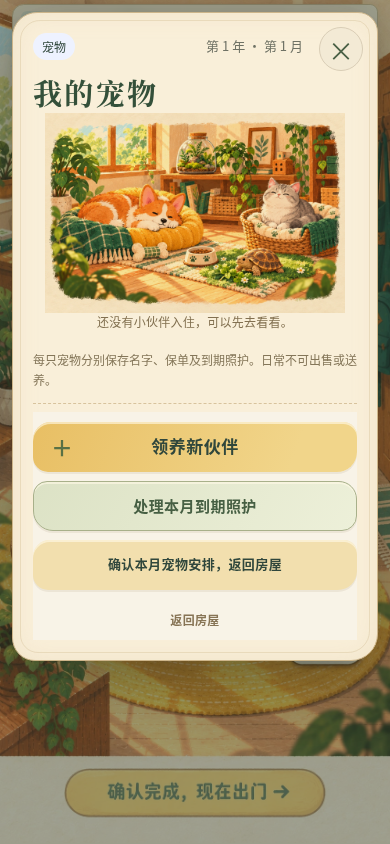
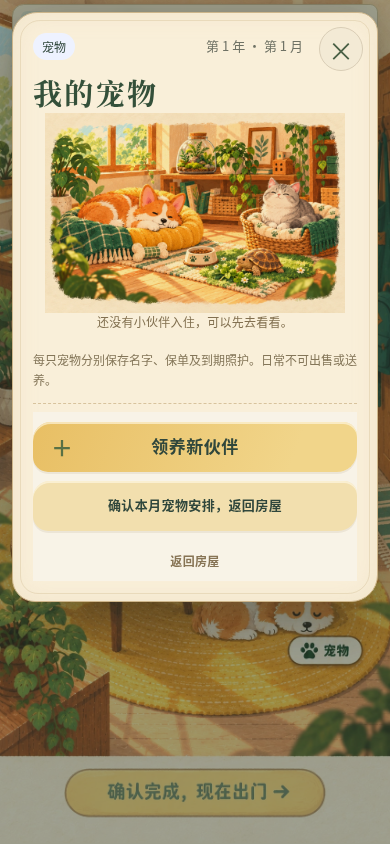
Hide due care from the pet hub until a pet is adopted

Changed region(s): [[0.0308, 0.5545, 0.9846, 0.8009]]

diff --git a/sw.js b/sw.js
@@ -1,5 +1,5 @@
-const CACHE='wealth-life-v28.3-pet-hub1';
-const ASSETS=["./pet-hub-art.js?v=28.3-pet-hub1","./pet-hub-art.css?v=28.3-pet-hub1","./assets/career/pet-hub.webp","./assets/career/home-mobile.webp","./room-arrangements.js?v=28.3-room-checks1","./map-card-data.js?v=28.3-mapcards1", "./map-card-rules.js?v=28.3-mapcards1", "./map-card-system.js?v=28.3-mapcards1", "./map-card.css?v=28.3-mapcards1", "./assets/career/map-pet-unwell.webp", "./assets/career/map-pet-injury.webp", "./assets/career/map-pet-companion.webp", "./assets/career/map-pet-social.webp", "./assets/career/map-pet-mishap.webp", "./assets/career/map-investment-studio.webp", "./assets/career/map-investment-bun-shop.webp", "./assets/career/map-investment-laundry.webp"] .concat(["./cafe-rules.js?v=28.3-manager1","./cafe-system.js?v=28.3-manager1","./career-entry.js?v=28.3-mobile-room1","./career-entry.css?v=28.3-entry2","./assets/career/shift-promotion-pending.webp","./assets/career/shift-promotion-preview.webp","./assets/career/coffee-course.webp","./pet-adoption.js?v=28.3-candidate1","./candidate-art.js?v=28.3-candidate1","./assets/career/barista-portrait.webp","./assets/career/pet-time-shortage.webp","./assets/career/pet-funds-shortage.webp","./assets/career/pet-crocodile-care.webp","./assets/career/bank-application.webp","./assets/career/bank-payment.webp","./housing-art.js?v=28.3-housing1","./assets/career/housing-select.webp","./assets/career/housing-reserve.webp","./assets/career/living-cost.webp","./return-art.js?v=28.3-return1","./assets/career/insurance.webp","./assets/career/return-energy.webp","./assets/career/return-stress.webp","./assets/career/payday.webp","./health-art.js?v=28.3-health1","./assets/career/rest-arrange.webp","./assets/career/rest-complete.webp","./assets/career/hospital-recovery.webp","./assets/career/month-recovery.webp","./education-art.js?v=28.3-education1","./assets/career/degrees.webp","./assets/career/associate-preview.webp","./learning-art.js?v=28.3-learning1","./assets/career/learning.webp","./assets/career/management-course.webp","./assets/career/service-course.webp","./hobby-art.js?v=28.3-room2","./assets/career/hobbies.webp","./home-scene.js?v=28.3-room-unified1","./home-scene.css?v=28.3-room-unified1","./assets/career/home.webp","./release-info.js?v=28.3-internal1","./financial-crisis.js?v=28.3-internal1","./four-state.js?v=28.3-internal1","./rest-state.js?v=28.3-internal1","./coffee-salary.js?v=28.3-internal1","./housing-lease.js?v=28.3-internal1","./pet-care.js?v=28.3-internal1","./necessary-bills.js?v=28.3-internal1","./recovery-ui.js?v=28.3-internal1","./medical-insurance.js?v=28.3-internal1","./recovery-rules.js?v=28.3-internal1","./time-ledger.js?v=28.3-internal1","./time-flow.js?v=28.3-home-end1","./assets/career/town.webp","./coffee-career.js?v=28.3-mapcards1", "./assets/career/barista-staff.webp", "./assets/career/barista-busy.webp", "./assets/career/barista-cut.webp", "./assets/career/barista-tip.webp", "./assets/career/barista-departure.webp", "./assets/career/shift-training.webp", "./assets/career/shift-schedule.webp", "./assets/career/shift-schedule-success.webp", "./assets/career/shift-schedule-failure.webp", "./assets/career/shift-complaint.webp", "./assets/career/shift-complaint-success.webp", "./assets/career/shift-complaint-failure.webp", "./assets/career/shift-acting.webp", "./assets/career/shift-acting-success.webp", "./assets/career/shift-acting-failure.webp", "./assets/career/shift-praise.webp", "./assets/career/intro.webp"] .concat(["./shift-lead.js?v=28.3-internal1","./shift-lead.css?v=28.3-internal1","./paper.css?v=28.3-internal1",'./coffee.js?v=28.3-internal1','./town.js?v=28.3-internal1','./','./index.html','./core.js','./flow.js?v=28.3-internal1','./journey.js?v=28.3-internal1','./batch.js?v=28.3-mapcards1','./revision.js?v=28.3-internal1','./annual.js?v=28.3-internal1','./core.js?v=28.3-mapcards1','./presentation.js?v=28.3-candidate1','./presentation.css?v=28.3-internal1','./city.svg','./manifest.webmanifest','./icons/icon-192.png','./icons/icon-512.png']));
+const CACHE='wealth-life-v28.3-pet-empty1';
+const ASSETS=["./pet-hub-art.js?v=28.3-pet-hub1","./pet-hub-art.css?v=28.3-pet-hub1","./assets/career/pet-hub.webp","./assets/career/home-mobile.webp","./room-arrangements.js?v=28.3-room-checks1","./map-card-data.js?v=28.3-mapcards1", "./map-card-rules.js?v=28.3-mapcards1", "./map-card-system.js?v=28.3-mapcards1", "./map-card.css?v=28.3-mapcards1", "./assets/career/map-pet-unwell.webp", "./assets/career/map-pet-injury.webp", "./assets/career/map-pet-companion.webp", "./assets/career/map-pet-social.webp", "./assets/career/map-pet-mishap.webp", "./assets/career/map-investment-studio.webp", "./assets/career/map-investment-bun-shop.webp", "./assets/career/map-investment-laundry.webp"] .concat(["./cafe-rules.js?v=28.3-manager1","./cafe-system.js?v=28.3-manager1","./career-entry.js?v=28.3-mobile-room1","./career-entry.css?v=28.3-entry2","./assets/career/shift-promotion-pending.webp","./assets/career/shift-promotion-preview.webp","./assets/career/coffee-course.webp","./pet-adoption.js?v=28.3-pet-empty1","./candidate-art.js?v=28.3-candidate1","./assets/career/barista-portrait.webp","./assets/career/pet-time-shortage.webp","./assets/career/pet-funds-shortage.webp","./assets/career/pet-crocodile-care.webp","./assets/career/bank-application.webp","./assets/career/bank-payment.webp","./housing-art.js?v=28.3-housing1","./assets/career/housing-select.webp","./assets/career/housing-reserve.webp","./assets/career/living-cost.webp","./return-art.js?v=28.3-return1","./assets/career/insurance.webp","./assets/career/return-energy.webp","./assets/career/return-stress.webp","./assets/career/payday.webp","./health-art.js?v=28.3-health1","./assets/career/rest-arrange.webp","./assets/career/rest-complete.webp","./assets/career/hospital-recovery.webp","./assets/career/month-recovery.webp","./education-art.js?v=28.3-education1","./assets/career/degrees.webp","./assets/career/associate-preview.webp","./learning-art.js?v=28.3-learning1","./assets/career/learning.webp","./assets/career/management-course.webp","./assets/career/service-course.webp","./hobby-art.js?v=28.3-room2","./assets/career/hobbies.webp","./home-scene.js?v=28.3-room-unified1","./home-scene.css?v=28.3-room-unified1","./assets/career/home.webp","./release-info.js?v=28.3-internal1","./financial-crisis.js?v=28.3-internal1","./four-state.js?v=28.3-internal1","./rest-state.js?v=28.3-internal1","./coffee-salary.js?v=28.3-internal1","./housing-lease.js?v=28.3-internal1","./pet-care.js?v=28.3-internal1","./necessary-bills.js?v=28.3-internal1","./recovery-ui.js?v=28.3-internal1","./medical-insurance.js?v=28.3-internal1","./recovery-rules.js?v=28.3-internal1","./time-ledger.js?v=28.3-internal1","./time-flow.js?v=28.3-home-end1","./assets/career/town.webp","./coffee-career.js?v=28.3-mapcards1", "./assets/career/barista-staff.webp", "./assets/career/barista-busy.webp", "./assets/career/barista-cut.webp", "./assets/career/barista-tip.webp", "./assets/career/barista-departure.webp", "./assets/career/shift-training.webp", "./assets/career/shift-schedule.webp", "./assets/career/shift-schedule-success.webp", "./assets/career/shift-schedule-failure.webp", "./assets/career/shift-complaint.webp", "./assets/career/shift-complaint-success.webp", "./assets/career/shift-complaint-failure.webp", "./assets/career/shift-acting.webp", "./assets/career/shift-acting-success.webp", "./assets/career/shift-acting-failure.webp", "./assets/career/shift-praise.webp", "./assets/career/intro.webp"] .concat(["./shift-lead.js?v=28.3-internal1","./shift-lead.css?v=28.3-internal1","./paper.css?v=28.3-internal1",'./coffee.js?v=28.3-internal1','./town.js?v=28.3-internal1','./','./index.html','./core.js','./flow.js?v=28.3-internal1','./journey.js?v=28.3-internal1','./batch.js?v=28.3-mapcards1','./revision.js?v=28.3-internal1','./annual.js?v=28.3-internal1','./core.js?v=28.3-mapcards1','./presentation.js?v=28.3-candidate1','./presentation.css?v=28.3-internal1','./city.svg','./manifest.webmanifest','./icons/icon-192.png','./icons/icon-512.png']));
 self.addEventListener('install',e=>{self.skipWaiting();e.waitUntil(caches.open(CACHE).then(c=>c.addAll(ASSETS)))});
 self.addEventListener('activate',e=>e.waitUntil(Promise.all([caches.keys().then(keys=>Promise.all(keys.filter(k=>k.startsWith('wealth-life-')&&k!==CACHE).map(k=>caches.delete(k)))),self.clients.claim()])));
 // Register the cache lifetime synchronously while the fetch event is active.

diff --git a/pet-adoption.js b/pet-adoption.js
@@ -74,7 +74,7 @@ function openPetPolicy(id){
 function openPetHub(){
  syncFinance();showEvent('宠物','我的宠物','每只宠物分别保存名字、保单及到期照护。日常不可出售或送养。',
  (state.pets||[]).map(p=>[batchEscape(p.name||p.type), (PET_ADOPTION[petCareSpecies(p)]?.name||batchEscape(p.type))+' · 月养护 '+priceText(petIndividualMonthly(p))]),
- [['领养新伙伴',openPetAdoptions,true],['处理本月到期照护',openPetCare,false],
+ [['领养新伙伴',openPetAdoptions,true],...((state.pets||[]).length?[['处理本月到期照护',openPetCare,false]]:[]),
  ...(state.pets||[]).filter(p=>p.petRulesVersion===1).map(p=>[p.name+' · 保险',()=>openPetPolicy(p.id),false]),['返回房屋',townHome,false]]);
 }
 $('petBtn').onclick=openPetHub;

diff --git a/index.html b/index.html
@@ -580,7 +580,7 @@ window.v245OpenHousing=()=>document.getElementById('housingBtn').click();
 <script src="health-art.js?v=28.3-health1"></script>
 <script src="return-art.js?v=28.3-return1"></script>
 <script src="housing-art.js?v=28.3-housing1"></script>
-<script src="pet-adoption.js?v=28.3-candidate1"></script>
+<script src="pet-adoption.js?v=28.3-pet-empty1"></script>
 <script src="candidate-art.js?v=28.3-candidate1"></script>
 <link rel="stylesheet" href="career-entry.css?v=28.3-entry2">
 <script src="career-entry.js?v=28.3-mobile-room1"></script>

diff --git a/qa/browser-pet-hub-art.py b/qa/browser-pet-hub-art.py
@@ -23,8 +23,7 @@ with sync_playwright() as p:
  assert page.get_by_role('button',name='查看变色龙',exact=True).is_visible()
  page.get_by_role('button',name='返回我的宠物',exact=True).click()
  assert page.locator('.event-active.pet-hub-painted').count()==1
- page.get_by_role('button',name='处理本月到期照护',exact=True).click()
- assert page.locator('.event-active.pet-hub-painted').count()==0
+ assert page.get_by_role('button',name='处理本月到期照护',exact=True).count()==0
  assert page.evaluate('({cash:state.cash,month:state.month,free:currentCareerTime().free,pets:state.pets.length})')==before
  page.evaluate('clearModals();townHome()');page.locator('#roomView [data-room="pets"]').click()
  for width,height in [(320,740),(390,844)]:
@@ -39,6 +38,8 @@ with sync_playwright() as p:
  assert page.locator('.pet-hub-empty').count()==0
  assert '豆豆' in page.locator('#eventData').inner_text()
  assert page.get_by_role('button',name='豆豆 · 保险',exact=True).is_visible()
+ page.get_by_role('button',name='处理本月到期照护',exact=True).click()
+ assert page.locator('.event-active.pet-hub-painted').count()==0
  assert not errors,errors
- result={'passed':True,'checks':['新卡实际加载插画，未养宠显示空状态，打开不扣款不耗时','领养/返回/到期照护真实按钮沿原动作，子页不会残留宠物主页样式','320/390px无横向溢出，确认回屋保留打勾','已养宠fixture展示真实名字与逐宠保险按钮'],'pageErrors':errors,'limitations':['隔离Chromium，非真机','已养宠仅显示fixture，未重测全部领养与理赔规则']}
+ result={'passed':True,'checks':['新卡实际加载插画，未养宠不显示到期照护，打开不扣款不耗时','领养/返回/到期照护真实按钮沿原动作，子页不会残留宠物主页样式','320/390px无横向溢出，确认回屋保留打勾','已养宠fixture展示真实名字与逐宠保险按钮'],'pageErrors':errors,'limitations':['隔离Chromium，非真机','已养宠仅显示fixture，未重测全部领养与理赔规则']}
  Path('qa/browser-evidence/pet-hub-art.json').write_text(json.dumps(result,ensure_ascii=False,indent=2)+'\n');print(json.dumps(result,ensure_ascii=False,indent=2));ctx.close();b.close()

diff --git a/qa/browser-month-loop.py b/qa/browser-month-loop.py
@@ -64,7 +64,7 @@ with sync_playwright() as p:
  ctx=b.new_context();page=ctx.new_page();page.goto('http://127.0.0.1:8765',wait_until='networkidle')
  page.evaluate('navigator.serviceWorker.ready');page.reload(wait_until='networkidle')
  page.wait_for_function('navigator.serviceWorker.controller!==null')
- assert page.evaluate('caches.keys()')==['wealth-life-v28.3-pet-hub1']
+ assert page.evaluate('caches.keys()')==['wealth-life-v28.3-pet-empty1']
  ctx.set_offline(True);page.reload(wait_until='networkidle')
  (page.locator('#careerPreview') if page.locator('#careerPreview').is_visible() else page.get_by_role('button',name='存档 1 · 新游戏',exact=True)).click();page.locator('#job').select_option('barista')
  assert page.locator('#coffeeIntro img').evaluate('(x)=>x.complete&&x.naturalWidth>0')

diff --git a/progress/pet-hub-art-2026-10-25.md b/progress/pet-hub-art-2026-10-25.md
@@ -12,3 +12,5 @@
 验证：4个相关Node测试（资源清单、宠物领养、照护、房屋确认）通过；新模块语法及diff检查通过。`qa/browser-pet-hub-art.py` 在隔离Chromium用真实按钮检查新图加载、打开无扣款/耗时、领养及返回、照护、确认回屋打勾、320/390px不横溢出；已养宠名字/保险展示使用明确fixture，未重测全部领养与理赔规则。证据 `qa/browser-evidence/pet-hub-art.json`，截图 [当前主卡](evidence/pet-hub-painted-2026-10-25.png)。未测真机。
 
 本轮为本地增量保存，未推送、合并或部署；上一个用户授权上传的房屋检查点仍为远端 `8fbd48a`。本次不宣称宠物全部玩法完成，旧系统审查缺口仍保留。
+
+后续用户要求先处理未领养页：没有宠物时取消“处理本月到期照护”按钮。现按实际宠物数组条件显示该入口，有宠物时保留；未改照护费用/时点。已展示当前原“领养新伙伴→选择新伙伴”页面，七物种与原动作尚未做本轮视觉改造。缓存更新 `wealth-life-v28.3-pet-empty1`，宠物领养脚本HTML/SW版本同步。相关领养/资源2个Node测试和浏览器空/有宠物分支检查通过，打开列表仍不扣款不新增宠物。截图 `qa/browser-evidence/pet-adoptions-current.png` 为现状。

diff --git a/CODEX_HANDOFF.md b/CODEX_HANDOFF.md
@@ -2,6 +2,8 @@
 
 ## 本地后续：手绘宠物主卡（2026-10-25）
 
+最新宠物修正：未领养时隐藏“处理本月到期照护”，实际有宠物才显示。原领养列表页面已向用户展示，尚未改其视觉。缓存 `wealth-life-v28.3-pet-empty1`；原存档与照护规则不变。
+
 在已上传 `8fbd48a` 之后，用户要求美化宠物主卡。已新增装饰宠物照护插画与暖纸/手绘感按钮，原领养/照护/保单/确认动作和真实名单不变。详见 [宠物主卡记录](progress/pet-hub-art-2026-10-25.md)。生产插画55、候选459原样；缓存 `wealth-life-v28.3-pet-hub1`。相关4个Node测试及隔离Chromium按钮/空状态/已养宠fixture/小屏验证通过。本次仅本地保存，未上传合并部署。
 
 ## 最新上传检查点：V28.3-room-unified1（2026-10-25）

diff --git a/NEXT_SESSION.md b/NEXT_SESSION.md
@@ -7,6 +7,8 @@
 
 远端房屋检查点为 `8fbd48a`。其后本地宠物主卡美化优先读 `progress/pet-hub-art-2026-10-25.md`：新增装饰插画/手绘卡片，玩法不变；生产插画现55、缓存 `wealth-life-v28.3-pet-hub1`，该增量尚未推送。不要用远端旧文件覆盖本地后续。
 
+最新本地修正：未领养宠物时隐藏到期照护入口，有宠物时保留。当前缓存 `wealth-life-v28.3-pet-empty1`；原领养列表仅展示给用户、尚未视觉重做。
+
 用户已确认最终开场流程，并明确要求“保存进度，更新上传”。本轮上传同一开发分支；不合并main、不正式部署。此前文档的“仅本地/未上传”属于当时历史状态，由本检查点覆盖。
 
 ## 当前确认流程
